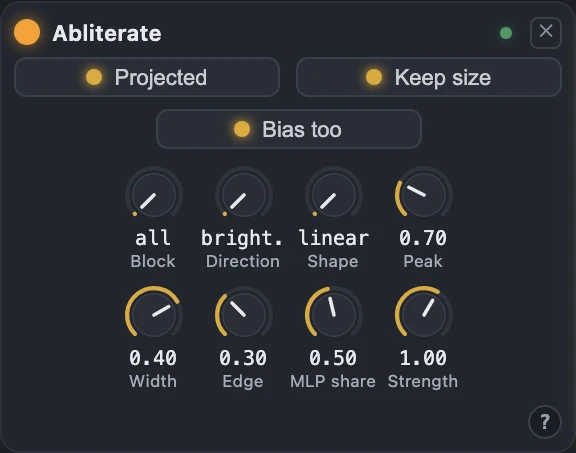
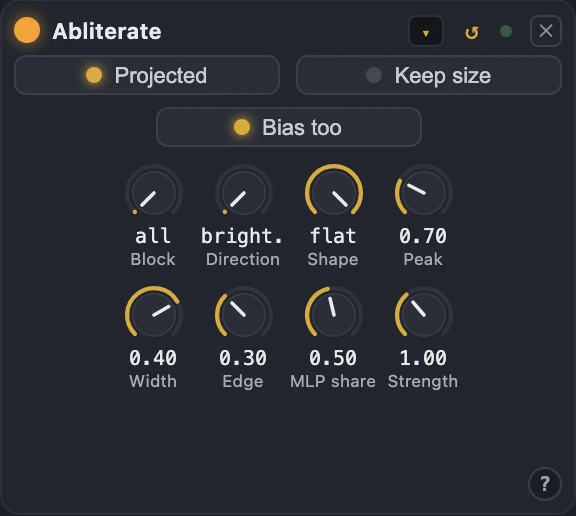
0.2.8: screenshots, captions and README for today's changes
New captures of the Make view, Output, the modulation strip (Steps tab), the Model layers card
(Abliterate with its presets and snap-back), the Effects row with Abliterated, the sends (linked
knobs lit, others dull) and all thirteen unit strips; the Abliterated card on the Effects page;
captions, alt text and sizes to match; the README on Abliterate's range, presets and MLX
version, snap-back and the Abliterated effect. The page templates in _tmp/site brought up to
date so a rebuild keeps today's edits.

diff --git a/docs/index.html b/docs/index.html
@@ -142,7 +142,7 @@
         <figcaption><span class="tag">Signal path</span>The route through the model and out as sound, live. A selected card lights its unit's lane.</figcaption>
       </figure>
       <figure class="clip green" style="--w:150px;--mw:190px">
-        <a class="shot" href="img/c-output.webp" data-cap="Output while it plays: a low-pass at 16 kHz, volume 0.50, a buffer of three frames (120 ms) ahead of the sound card, auto level, limiter and De-click on, Bypass off. Dynamics: a compressor at 3.1:1 from −30 dBFS with fast attack, the gate off. The rows show the compressor's and gate's reduction on LEDs, auto level's gain and the limiter's pull. The OUT meter lights in cells, green, amber from −6 dB and red from −1 dB, with a hold line on each channel's peak."><img src="img/c-output.webp" width="230" height="341" loading="lazy" alt="The Output panel: knobs for Low-pass 16.0k, Volume 0.50 and Buffer 120 ms; switches Bypass, Level, Limiter and De-click, two by two; Dyn, Fast and Peak switches over Ratio, Thresh, Release and Gate knobs; rows of LEDs for Comp, Gate, Auto and Limit with their readings; and a tall OUT meter of green cells."></a>
+        <a class="shot" href="img/c-output.webp" data-cap="Output while it plays: a low-pass at 16 kHz, volume 0.50, a buffer of six frames (240 ms) ahead of the sound card, auto level, limiter and De-click on, Bypass off. Dynamics: a compressor at 3.1:1 from −30 dBFS with fast attack, the gate off. The rows show the compressor's and gate's reduction on LEDs, auto level's gain and the limiter's pull. The OUT meter lights in cells, green, amber from −6 dB and red from −1 dB, with a hold line on each channel's peak."><img src="img/c-output.webp" width="371" height="629" loading="lazy" alt="The Output panel: knobs for Low-pass 16.0k, Volume 0.50 and Buffer 240 ms; switches Bypass, Level, Limiter and De-click, two by two; Dyn, Fast and Peak switches over Ratio, Thresh, Release and Gate knobs; rows of LEDs for Comp, Gate, Auto and Limit with their readings; and a tall OUT meter of green cells."></a>
         <figcaption><span class="tag">Output</span>De-click, auto level, Dynamics (a compressor and gate), low-pass, limiter and volume, with Bypass to hear the model before them.</figcaption>
       </figure>
     </div>
@@ -152,21 +152,21 @@
         <figcaption><span class="tag">Steer</span>Two directions on a pad, at layer 6. The knobs keep to the range the measurements found musical.</figcaption>
       </figure>
       <figure class="clip red" style="--w:150px;--mw:190px">
-        <a class="shot" href="img/c-layer.webp" data-cap="A Lookback card at layer 6: Layer, Time (4 frames), Feedback (0.30) and Mix (0.20) as knobs. The ⚠ on Time and Feedback marks settings that held up only at these values in the measurements. Below, the last 32 frames, newest on the left, with the frames it reads back lit as it acts; here the reading is simulated, so the page could be captured without the engine."><img src="img/c-layer.webp" width="186" height="258" loading="lazy" alt="The Lookback card: its power light, name and remove button; knobs for Layer 6, Time 4 with a warning mark, Feedback 0.30 with a warning mark and Mix 0.20; a row of 32 small cells with every fourth one lit, reading 4 frames, 160 ms; a help button; beside it the empty slot for adding a unit."></a>
-        <figcaption><span class="tag">Model layer</span>Lookback at layer 6, with its taps lit. Its mix is measured; 0.5 silences the model.</figcaption>
+        <a class="shot" href="img/c-layer.webp" data-cap="An Abliterate card on all twelve blocks, taking Pulse out of what attention and the MLPs write and turning it round (Strength 2.00), flat over the blocks, Projected on and Keep size off. By its name, the ▾ menu of starting points (Remove · 1 to Far side · 6) and ↺, snap-back, which returns the model to where it was when the unit went on, once it goes off."><img src="img/c-layer.webp" width="576" height="516" loading="lazy" alt="The Abliterate card: its power light and name, a small preset menu, a gold snap-back arrow and a remove button; switches Projected (on), Keep size (off) and Bias too (on); knobs for Block all, Direction pulse, Shape flat, Peak 0.70, Width 0.40, Edge 0.30, MLP share 0.50 and Strength 2.00; a help button."></a>
+        <figcaption><span class="tag">Model layer</span>Abliterate on all blocks at strength 2, with its presets (▾) and snap-back (↺).</figcaption>
       </figure>
       <figure class="clip" style="--w:520px;--mw:760px">
-        <a class="shot" href="img/c-effects.webp" data-cap="An effect chain of four between IN and OUT while it plays: Tape, with its meter of how hard the tape is driven, at 7.5 inches a second; EQ 8, with a low cut at 80 Hz, 400 Hz down 3 dB and 2.5 kHz up 2 dB, drawn as its curve; Pan, auto-panning, with a dot for where the sound sits; and Plate in its 1980s colour. The ✕ removes an effect, its name drags it to another place, a + in the gap between two adds one there, and the dashed + adds one at the end, up to eight in all."><img src="img/c-effects.webp" width="1428" height="267" loading="lazy" alt="The Effects panel between IN and OUT labels: Tape with a small row of drive cells, knobs for Drive 0.55, Wow 0.30, Flutter 0.10, Hiss 0.10 and Mix 1.00, and a Speed selector of 3.75, 7.5 (lit), 15 and 30; EQ 8 with a response curve over eight knobs and a Slope of 12 or 24 dB; a narrow Pan card with an L to R track and a dot, and knobs for Pan C, Auto rate 0.20 and Auto depth 0.35; Plate with Decay 2.5 s, Size 1.00, Pre-delay 10 ms, Damp 0.30, Mod 0.50, Mix 0.25 and Colour set to 1980s; then a dashed + to add another."></a>
+        <a class="shot" href="img/c-effects.webp" data-cap="An effect chain of four between IN and OUT while it plays: Tape, with its meter of how hard the tape is driven, at 7.5 inches a second; Abliterated, the heavy distortion, at Crunch 0.60, Edge 0.35 and Complicate 0.30, mixed in at 0.55, its Steer moved by Steps (the green ring); EQ 8, with a low cut at 80 Hz, 400 Hz down 3 dB and 2.5 kHz up 2 dB, drawn as its curve; and Plate in its 1980s colour. The ✕ removes an effect, its name drags it to another place, a + in the gap between two adds one there, and the dashed + adds one at the end, up to eight in all."><img src="img/c-effects.webp" width="2308" height="533" loading="lazy" alt="The Effects panel between IN and OUT labels: Tape with a small row of drive cells, knobs for Drive 0.55, Wow 0.30, Flutter 0.10, Hiss 0.10 and Mix 1.00, and a Speed selector of 3.75, 7.5 (lit), 15 and 30; Abliterated with Crunch 0.60, Edge 0.35, Complicate 0.30, Steer 1.2k ringed in green, Tone 6.0k, Level 0.0 and Mix 0.55; EQ 8 with a response curve over eight knobs and a Slope of 12 or 24 dB; Plate with Decay 2.5 s, Size 1.00, Pre-delay 10 ms, Damp 0.30, Mod 0.50, Mix 0.25 and Colour set to 1980s; then a dashed + to add another."></a>
         <figcaption><span class="tag">Effects</span>Up to eight effects on the audio, added in any gap, removed and dragged into order. A saved sound keeps them.</figcaption>
       </figure>
     </div>
     <figure>
-      <a class="shot" href="img/c-mod.webp" data-cap="Modulation: three LFOs, three envelopes and two random sources along the top, each drawing what it does (a macro's tile appears once it moves something); the LFO tab below with shape, rate, amount, phase, symmetry and smoothing, and each LFO's links with their sends. LFO 1 moves Brightness and the low-pass, LFO 2 the Lookback unit's mix."><img src="img/c-mod.webp" width="1300" height="332" loading="lazy" alt="The modulation strip: tiles LFO 1, LFO 2, LFO 3, ENV 1, ENV 2, ENV 3, RAND 1 and RAND 2, each with a small drawing of its signal, and below them the LFO editor with five wave shapes and Rate, Amount, Phase, Symmetry and Smooth knobs for each LFO; LFO 1 at 0.20 Hz and 80% linked to Brightness at 0.35 and Low-pass at −0.20, LFO 2 a triangle linked to Lookback Mix at 0.30."><span class="zoom">Zoom</span></a>
-      <figcaption><b>Modulation.</b> Twelve sources. Drag a source onto any knob that takes one: the Steer doses, Strength, Temperature, the output's low-pass and volume, every knob of a Model layers unit and of an effect. Each source is a function of the frame's time, so a saved sound replays its modulation exactly.</figcaption>
+      <a class="shot" href="img/c-mod.webp" data-cap="Modulation: three LFOs, an envelope, two random sources, Steps, the Follower, Drift and Chaos along the top, each drawing what it does (ENV 2, ENV 3 and the macros appear once they move something); the Steps tab below, with eight steps drawn by hand at two a second, its Rate, Length, Glide and Amount, and its link to Abliterated's Steer at 0.30."><img src="img/c-mod.webp" width="2308" height="563" loading="lazy" alt="The modulation strip: tiles LFO 1, LFO 2, LFO 3, ENV 1, RAND 1, RAND 2, STEPS, FOLLOW, DRIFT and CHAOS, each with a small drawing of its signal; below them the tabs LFO, Envelope, Random, Steps, Follower, Wild and Macros, the Steps tab open: eight green bars above and below a centre line, and knobs for Rate 2.00 a second, Length 8, Glide 0 and Amount 100%, with a link to Abliterated Steer at 0.30."><span class="zoom">Zoom</span></a>
+      <figcaption><b>Modulation.</b> Sixteen sources: LFOs, envelopes, random sources, Steps, the Follower, Drift, Chaos and macros. Drag a source onto any knob that takes one: the Steer doses, Strength, Temperature, the output's low-pass and volume, every knob of a Model layers unit and of an effect. Each source but the Follower is a function of the frame's time, and the Follower reads the model's own output, so a saved sound replays its modulation exactly.</figcaption>
     </figure>
     <figure class="clip" style="--w:280px;--mw:360px">
-      <a class="shot" href="img/c-send.webp" data-cap="LFO 1 selected: the Steer card's knobs have turned into its sends, Pulse at +0.12, drawn from 12 o'clock in its colour. Its badge is being dragged onto Brightness, which lights up to take it."><img src="img/c-send.webp" width="397" height="260" loading="lazy" alt="The Steer card with LFO 1 selected: the Brightness and Pulse knobs show sends instead of values, Pulse at +0.12 with a gold arc, and a small LFO 1 badge with a sine glyph over the glowing Brightness knob."></a>
-      <figcaption><span class="tag">Sends</span>Click a source and the knobs it can move become its sends: drag up for more, down for less, double-click to unlink. Its badge drops onto a knob to link it.</figcaption>
+      <a class="shot" href="img/c-send.webp" data-cap="LFO 1 selected: the Steer card's knobs have turned into its sends. Brightness, which it moves, is lit, its send +0.12 in gold from 12 o'clock; Pulse, which it could move, is dull at +0.00. The instructions show in the info bar at the foot of the page."><img src="img/c-send.webp" width="794" height="520" loading="lazy" alt="The Steer card with LFO 1 selected: the Brightness knob glowing gold with its send at +0.12, the Pulse knob in a dull yellow with its send at +0.00, beside the XY pad and the chart of the doses."></a>
+      <figcaption><span class="tag">Sends</span>Click a source and the knobs it can move become its sends, lit where it already moves them. Click a knob to link it at 0.5, drag up for more, down for less, double-click to unlink. Its badge drops onto a knob to link it at 0.5.</figcaption>
     </figure>
     <figure>
       <a class="shot" href="img/c-listen.webp" data-cap="Listen (≋ in the top bar): the model's lane while it plays the Warm drone. Partway through, a Brightness dose of 0.2 was set: the low drone fades and higher material comes in. A second lane shows the tracks' mix."><img src="img/c-listen.webp" width="1400" height="384" loading="lazy" alt="The Listen view: a wide spectrogram from 40 Hz to 20 kHz in violet, amber and white; on the left a strong band near 150 Hz with partials above it, on the right, after the Brightness move, the low band gone and bright partials between 500 Hz and 5 kHz."><span class="zoom">Zoom</span></a>
@@ -222,55 +222,55 @@
     <p class="unit-desk-note">Each unit as a card on the Model layers row, at the defaults measured on this engine, with the display it shows while the model plays. The displays here are drawn from simulated readings, so the page could be captured without the engine. Scroll along the row; a name opens the unit's card, with its whole sweep to listen to.</p>
     <div class="unit-desk" tabindex="0" aria-label="The thirteen units' strips; scroll sideways for more">
         <figure class="ucard">
-          <a class="shot" href="img/strips/delay.webp" data-cap="Lookback on the Model layers row, at the defaults measured on this engine. Its card on the Model layers page has its sweep to listen to."><img src="img/strips/delay.webp" width="144" height="178" loading="lazy" alt="The Lookback strip at its defaults."></a>
+          <a class="shot" href="img/strips/delay.webp" data-cap="Lookback on the Model layers row, at the defaults measured on this engine. Its card on the Model layers page has its sweep to listen to."><img src="img/strips/delay.webp" width="288" height="516" loading="lazy" alt="The Lookback strip at its defaults."></a>
           <figcaption><b><a href="units.html#u-delay">Lookback</a></b><span class="uwhat">Adds the stream from some positions back: an echo, with feedback</span></figcaption>
         </figure>
         <figure class="ucard">
-          <a class="shot" href="img/strips/reverb.webp" data-cap="Running Average on the Model layers row, at the defaults measured on this engine. Its card on the Model layers page has its sweep to listen to."><img src="img/strips/reverb.webp" width="144" height="178" loading="lazy" alt="The Running Average strip at its defaults."></a>
+          <a class="shot" href="img/strips/reverb.webp" data-cap="Running Average on the Model layers row, at the defaults measured on this engine. Its card on the Model layers page has its sweep to listen to."><img src="img/strips/reverb.webp" width="288" height="516" loading="lazy" alt="The Running Average strip at its defaults."></a>
           <figcaption><b><a href="units.html#u-reverb">Running Average</a></b><span class="uwhat">Adds a decaying average of the earlier positions</span></figcaption>
         </figure>
         <figure class="ucard">
-          <a class="shot" href="img/strips/beatrepeat.webp" data-cap="Frame Repeat on the Model layers row, at the defaults measured on this engine. Its card on the Model layers page has its sweep to listen to."><img src="img/strips/beatrepeat.webp" width="144" height="178" loading="lazy" alt="The Frame Repeat strip at its defaults."></a>
+          <a class="shot" href="img/strips/beatrepeat.webp" data-cap="Frame Repeat on the Model layers row, at the defaults measured on this engine. Its card on the Model layers page has its sweep to listen to."><img src="img/strips/beatrepeat.webp" width="288" height="516" loading="lazy" alt="The Frame Repeat strip at its defaults."></a>
           <figcaption><b><a href="units.html#u-beatrepeat">Frame Repeat</a></b><span class="uwhat">In every run of positions, replays the stream of the few positions before over the last few: a stutter</span></figcaption>
         </figure>
         <figure class="ucard">
-          <a class="shot" href="img/strips/compressor.webp" data-cap="Norm Shrink on the Model layers row, at the defaults measured on this engine. Its card on the Model layers page has its sweep to listen to."><img src="img/strips/compressor.webp" width="144" height="178" loading="lazy" alt="The Norm Shrink strip at its defaults."></a>
+          <a class="shot" href="img/strips/compressor.webp" data-cap="Norm Shrink on the Model layers row, at the defaults measured on this engine. Its card on the Model layers page has its sweep to listen to."><img src="img/strips/compressor.webp" width="288" height="516" loading="lazy" alt="The Norm Shrink strip at its defaults."></a>
           <figcaption><b><a href="units.html#u-compressor">Norm Shrink</a></b><span class="uwhat">Above a threshold, reduces the stream's size at each position by a ratio</span></figcaption>
         </figure>
         <figure class="ucard">
-          <a class="shot" href="img/strips/saturator.webp" data-cap="Tanh Squash on the Model layers row, at the defaults measured on this engine. Its card on the Model layers page has its sweep to listen to."><img src="img/strips/saturator.webp" width="144" height="178" loading="lazy" alt="The Tanh Squash strip at its defaults."></a>
+          <a class="shot" href="img/strips/saturator.webp" data-cap="Tanh Squash on the Model layers row, at the defaults measured on this engine. Its card on the Model layers page has its sweep to listen to."><img src="img/strips/saturator.webp" width="288" height="516" loading="lazy" alt="The Tanh Squash strip at its defaults."></a>
           <figcaption><b><a href="units.html#u-saturator">Tanh Squash</a></b><span class="uwhat">Soft-clips each dimension of the stream, harder as the drive rises</span></figcaption>
         </figure>
         <figure class="ucard">
-          <a class="shot" href="img/strips/erosion.webp" data-cap="Quantise on the Model layers row, at the defaults measured on this engine. Its card on the Model layers page has its sweep to listen to."><img src="img/strips/erosion.webp" width="144" height="217" loading="lazy" alt="The Quantise strip at its defaults."></a>
+          <a class="shot" href="img/strips/erosion.webp" data-cap="Quantise on the Model layers row, at the defaults measured on this engine. Its card on the Model layers page has its sweep to listen to."><img src="img/strips/erosion.webp" width="288" height="516" loading="lazy" alt="The Quantise strip at its defaults."></a>
           <figcaption><b><a href="units.html#u-erosion">Quantise</a></b><span class="uwhat">Quantises the stream to few levels, or holds it over several positions</span></figcaption>
         </figure>
         <figure class="ucard">
-          <a class="shot" href="img/strips/gate.webp" data-cap="Sparsify on the Model layers row, at the defaults measured on this engine. Its card on the Model layers page has its sweep to listen to."><img src="img/strips/gate.webp" width="144" height="217" loading="lazy" alt="The Sparsify strip at its defaults."></a>
+          <a class="shot" href="img/strips/gate.webp" data-cap="Sparsify on the Model layers row, at the defaults measured on this engine. Its card on the Model layers page has its sweep to listen to."><img src="img/strips/gate.webp" width="288" height="516" loading="lazy" alt="The Sparsify strip at its defaults."></a>
           <figcaption><b><a href="units.html#u-gate">Sparsify</a></b><span class="uwhat">Keeps only each position's largest components and zeroes the rest, making the stream sparse</span></figcaption>
         </figure>
         <figure class="ucard">
-          <a class="shot" href="img/strips/limiter.webp" data-cap="Component Clamp on the Model layers row, at the defaults measured on this engine. Its card on the Model layers page has its sweep to listen to."><img src="img/strips/limiter.webp" width="144" height="217" loading="lazy" alt="The Component Clamp strip at its defaults."></a>
+          <a class="shot" href="img/strips/limiter.webp" data-cap="Component Clamp on the Model layers row, at the defaults measured on this engine. Its card on the Model layers page has its sweep to listen to."><img src="img/strips/limiter.webp" width="288" height="516" loading="lazy" alt="The Component Clamp strip at its defaults."></a>
           <figcaption><b><a href="units.html#u-limiter">Component Clamp</a></b><span class="uwhat">Clamps each position's largest components at a ceiling set by a quantile of their sizes</span></figcaption>
         </figure>
         <figure class="ucard">
-          <a class="shot" href="img/strips/eq.webp" data-cap="Principal Bands on the Model layers row, at the defaults measured on this engine. Its card on the Model layers page has its sweep to listen to."><img src="img/strips/eq.webp" width="144" height="217" loading="lazy" alt="The Principal Bands strip at its defaults."></a>
+          <a class="shot" href="img/strips/eq.webp" data-cap="Principal Bands on the Model layers row, at the defaults measured on this engine. Its card on the Model layers page has its sweep to listen to."><img src="img/strips/eq.webp" width="288" height="516" loading="lazy" alt="The Principal Bands strip at its defaults."></a>
           <figcaption><b><a href="units.html#u-eq">Principal Bands</a></b><span class="uwhat">Scales three bands of the stream's principal directions: low, mid, high</span></figcaption>
         </figure>
         <figure class="ucard">
-          <a class="shot" href="img/strips/multiband.webp" data-cap="Band Shrink on the Model layers row, at the defaults measured on this engine. Its card on the Model layers page has its sweep to listen to."><img src="img/strips/multiband.webp" width="144" height="178" loading="lazy" alt="The Band Shrink strip at its defaults."></a>
+          <a class="shot" href="img/strips/multiband.webp" data-cap="Band Shrink on the Model layers row, at the defaults measured on this engine. Its card on the Model layers page has its sweep to listen to."><img src="img/strips/multiband.webp" width="288" height="516" loading="lazy" alt="The Band Shrink strip at its defaults."></a>
           <figcaption><b><a href="units.html#u-multiband">Band Shrink</a></b><span class="uwhat">Compresses the stream separately in three bands of its principal directions: low, mid, high</span></figcaption>
         </figure>
         <figure class="ucard">
-          <a class="shot" href="img/strips/shifter.webp" data-cap="Rotate on the Model layers row, at the defaults measured on this engine. Its card on the Model layers page has its sweep to listen to."><img src="img/strips/shifter.webp" width="144" height="217" loading="lazy" alt="The Rotate strip at its defaults."></a>
+          <a class="shot" href="img/strips/shifter.webp" data-cap="Rotate on the Model layers row, at the defaults measured on this engine. Its card on the Model layers page has its sweep to listen to."><img src="img/strips/shifter.webp" width="288" height="516" loading="lazy" alt="The Rotate strip at its defaults."></a>
           <figcaption><b><a href="units.html#u-shifter">Rotate</a></b><span class="uwhat">Rotates the stream in the plane of two directions</span></figcaption>
         </figure>
         <figure class="ucard">
-          <a class="shot" href="img/strips/abliterate.webp" data-cap="Abliterate on the Model layers row, at the defaults measured on this engine. Its card on the Model layers page has its sweep to listen to."><img src="img/strips/abliterate.webp" width="288" height="226" loading="lazy" alt="The Abliterate strip at its defaults."></a>
+          <a class="shot" href="img/strips/abliterate.webp" data-cap="Abliterate on the Model layers row, at the defaults measured on this engine. Its card on the Model layers page has its sweep to listen to."><img src="img/strips/abliterate.webp" width="576" height="516" loading="lazy" alt="The Abliterate strip at its defaults."></a>
           <figcaption><b><a href="units.html#u-abliterate">Abliterate</a></b><span class="uwhat">Removes a direction from what attention and MLPs write, with a strength that peaks at one block and tapers</span></figcaption>
         </figure>
         <figure class="ucard">
-          <a class="shot" href="img/strips/neuron.webp" data-cap="Neuron on the Model layers row, at the defaults measured on this engine. Its card on the Model layers page has its sweep to listen to."><img src="img/strips/neuron.webp" width="288" height="226" loading="lazy" alt="The Neuron strip at its defaults."></a>
+          <a class="shot" href="img/strips/neuron.webp" data-cap="Neuron on the Model layers row, at the defaults measured on this engine. Its card on the Model layers page has its sweep to listen to."><img src="img/strips/neuron.webp" width="576" height="516" loading="lazy" alt="The Neuron strip at its defaults."></a>
           <figcaption><b><a href="units.html#u-neuron">Neuron</a></b><span class="uwhat">Scales, adds to, sets, zeroes, flips or clamps single MLP neurons in one block</span></figcaption>
         </figure>
     </div>
@@ -439,7 +439,7 @@
 </div>
 
 <audio id="player" preload="none"></audio>
-<script src="spec-index.js?v=989cfc11"></script>
+<script src="spec-index.js?v=389787bb"></script>
 <script src="media.js?v=e1db11f7"></script>
 <script src="site.js?v=f8f63539"></script>
 </body>

diff --git a/docs/effects.html b/docs/effects.html
@@ -93,6 +93,7 @@
       <figure><a class="shot" href="img/chain/fx-eq8.webp" data-cap="EQ 8 with a low cut at 80 Hz, a dip at 400 Hz and a lift at 2.5 kHz, cuts at 24 dB an octave."><img src="img/chain/fx-eq8.webp" width="240" height="231" loading="lazy" alt="The EQ 8 card with a response curve, eight knobs and a Slope switch."></a><figcaption>EQ 8</figcaption></figure>
       <figure><a class="shot" href="img/chain/fx-filter.webp" data-cap="Filter as a low-pass at 4 kHz with some resonance, and its curve."><img src="img/chain/fx-filter.webp" width="240" height="215" loading="lazy" alt="The Filter card with a curve that rises to a peak and falls, Cutoff and Resonance knobs, and an LP, HP, BP switch."></a><figcaption>Filter</figcaption></figure>
       <figure><a class="shot" href="img/chain/fx-crush.webp" data-cap="Crush: Bits, Rate ÷ and Mix."><img src="img/chain/fx-crush.webp" width="240" height="231" loading="lazy" alt="The Crush card with knobs for Bits 8, Rate ÷ 2 and Mix."></a><figcaption>Crush</figcaption></figure>
+      <figure><a class="shot" href="img/chain/fx-abliterated.webp" data-cap="Abliterated: Crunch, Edge, Complicate and Steer, then Tone, Level and Mix; here Steps moves Steer (the green ring)."><img src="img/chain/fx-abliterated.webp" width="240" height="232" loading="lazy" alt="The Abliterated card with knobs for Crunch 0.60, Edge 0.35, Complicate 0.30, Steer 1.2k with a green modulation ring, Tone 6.0k, Level 0.0 and Mix 0.55."></a><figcaption>Abliterated</figcaption></figure>
       <figure><a class="shot" href="img/chain/fx-pan.webp" data-cap="Pan auto-panning, with a dot for where the sound sits."><img src="img/chain/fx-pan.webp" width="154" height="231" loading="lazy" alt="The Pan card with a small L to R track and a dot, and knobs for Pan, Auto rate and Auto depth."></a><figcaption>Pan</figcaption></figure>
       <figure><a class="shot" href="img/chain/fx-declick.webp" data-cap="De-click with its count of bursts redrawn."><img src="img/chain/fx-declick.webp" width="154" height="231" loading="lazy" alt="The De-click card with a count reading 0 and knobs for Sensitivity and Longest."></a><figcaption>De-click</figcaption></figure>
     </div>
@@ -177,6 +178,9 @@
   <section class="section wrap reveal" id="abliterated">
     <span class="num">06</span>
     <h2>Abliterated</h2>
+    <figure class="clip" style="--w:240px;--mw:280px;float:right;margin:0 0 12px 18px">
+      <a class="shot" href="img/chain/fx-abliterated.webp" data-cap="Abliterated in a chain while it plays: Crunch 0.60, Edge 0.35, Complicate 0.30, Steer 1.2 kHz moved by Steps, Tone 6 kHz, Level 0 dB and Mix 0.55."><img src="img/chain/fx-abliterated.webp" width="240" height="232" loading="lazy" alt="The Abliterated card with seven knobs."></a>
+    </figure>
     <p>Abliterated is heavy distortion written for this instrument, in the Distortion group of the add menu with Drive and Crush. <b>Steer</b> sets where it bites: a resonant boost of 12 dB before the clipping, after a low cut at 90 Hz that keeps the lows tight. <b>Crunch</b> drives two tanh stages, each tilted to one side and the second the other way, with a high-pass at 140 Hz between them, from about 2× to 300× (+50 dB) in all. <b>Edge</b> blends in a sine wavefolder that folds the clipped wave back on itself up to seven times, which rings like metal. <b>Complicate</b> adds an octave up, the wave rectified, over the first half of its travel, and over the second a ring modulator at 1.5 times Steer, whose sum and difference tones clang. <b>Tone</b> is a two-pole low-pass standing in for a speaker cabinet. A make-up gain follows the input's power against the output's over 300 ms, so the controls change the character more than the level; <b>Level</b> trims it and <b>Mix</b> blends in the dry sound for parallel distortion.</p>
     <p>On Deep techno, whose sound is mostly below 100 Hz, the spectral centroid went from 65 Hz dry to 307 Hz at the defaults, 520 Hz with Crunch at 1 and Edge at 0.8, 1.06 kHz with Complicate at 0.5 and 2.23 kHz at 1, while the level stayed within 3 dB. It costs about 0.13 ms of the 10.7 ms block, and like every effect here it gives the same output at any block size.</p>
   </section>

diff --git a/docs/output.html b/docs/output.html
@@ -83,7 +83,7 @@
       </div>
       <div>
         <figure class="clip green" style="--w:230px;--mw:260px">
-          <a class="shot" href="img/chain/out-panel.webp" data-cap="The Output panel while it plays: Low-pass, Volume and Buffer; Bypass, Level, Limiter and De-click; Dynamics with Fast and Peak, Ratio, Threshold, Release and Gate; the rows of reduction for the compressor, gate, auto level and limiter; and the OUT meter."><img src="img/chain/out-panel.webp" width="230" height="341" loading="lazy" alt="The Output panel: three knobs, four switches, the Dynamics switches and four knobs, four rows of reduction LEDs, and a tall OUT meter of green cells."></a>
+          <a class="shot" href="img/chain/out-panel.webp" data-cap="The Output panel while it plays: Low-pass, Volume and Buffer; Bypass, Level, Limiter and De-click; Dynamics with Fast and Peak, Ratio, Threshold, Release and Gate; the rows of reduction for the compressor, gate, auto level and limiter; and the OUT meter."><img src="img/chain/out-panel.webp" width="185" height="314" loading="lazy" alt="The Output panel: three knobs, four switches, the Dynamics switches and four knobs, four rows of reduction LEDs, and a tall OUT meter of green cells."></a>
           <figcaption><span class="tag">Output</span>The whole section on one panel, with the OUT meter.</figcaption>
         </figure>
       </div>

diff --git a/docs/abliteration.html b/docs/abliteration.html
@@ -188,7 +188,7 @@
 
 <audio id="player" preload="none"></audio>
 <script src="media.js?v=e1db11f7"></script>
-<script src="units-media.js?v=f9351d93"></script>
+<script src="units-media.js?v=dc23b686"></script>
 <script src="design-media.js?v=a9f614af"></script>
 <script src="site.js?v=f8f63539"></script>
 <script>
@@ -208,7 +208,7 @@
   trio("trio-delay", D.delay || {}, ["The model, as it plays", "A delay on the audio", "Vector bending: Lookback"]);
 })();
 </script>
-<script src="spec-index.js?v=989cfc11"></script>
+<script src="spec-index.js?v=389787bb"></script>
 <script src="spectro.js?v=fb1f3867"></script>
 <script src="abliteration.js?v=dc501a48"></script>
 </body>

diff --git a/docs/units.html b/docs/units.html
@@ -165,7 +165,7 @@
 </div>
 
 <audio id="player" preload="none"></audio>
-<script src="units-media.js?v=f9351d93"></script>
+<script src="units-media.js?v=dc23b686"></script>
 <script src="units.js?v=ffc7900a"></script>
 <script src="site.js?v=f8f63539"></script>
 </body>

diff --git a/README.md b/README.md
@@ -18,7 +18,7 @@
 
 **Author:** David M. Berry
 **Institution:** University of Sussex
-**Version:** 0.2.7
+**Version:** 0.2.8
 **Status:** alpha
 **Licence:** GPL-3.0-or-later
 **Website:** https://vector-lab-tools.github.io/abliterator/
@@ -31,12 +31,12 @@ Abliterator plays a music model on your own machine and changes how it runs whil
 
 - **Make.** The instrument as a synth panel, on one laptop screen: the Engine (model; twenty-five presets in six groups, from ambient and electronic to acoustic, orchestral and experimental, or a style typed in the Prompt box and kept under Your prompts; Strength, how strongly the prompt steers the music; Seed; Temperature and Top-k under SAMPLING; and a scope of the last three seconds), the Signal path, the Output section, Model layers (Steer first, fixed at layer 6, then the units), Effects and Modulation. The Signal path draws, live, the stream through the model's twelve layers with Steer and each unit marked where it acts and lit while it acts, the codec, the model's sound and the effects, and an arrow on to the Output panel beside it, with dots running along both paths while it plays; a stage scrolls to its panel when clicked. Every knob sends while it turns; the change is heard from the next frame. **Speed** plays the model's sound slower, down to ⅛×, and **Mode** sets how: Tape lets the pitch fall with it, Stretch keeps the pitch (a phase vocoder with identity phase locking), Smear keeps it and washes it out over 0.34 s windows (after Paulstretch), and Off plays at 1× and keeps Speed's setting. The model writes only as fast as its sound is used, and a saved sound replays its speed exactly. Under the Engine's scope (Wave or Spectrum, with Mono and Stereo in its corner) are Mode and Speed under a SPEED CONTROL bracket and Width and Spread under STEREO, then left and right peak meters with the peak, RMS and correlation, and beside them the stereo field; the top bar shows CPU load and GPU load (the slowest steps against the 40 ms frame).
 - **Steer.** Directions made by difference of means from pairs of prompts that differ in one quality, kept as editable Markdown in `backend/config/contrasts/`. Brightness and Pulse ship. A dose is a share of the stream's typical size, added at layer 6.
-- **Model layers.** VAU units placed between the transformer layers (drag a card by its name to change their order; units at the same layer act in that order), under VAU's names for what they do to the stream (VAU marks its Core units as vector effects with a small v, which the units' help shows): Lookback, Running Average, Frame Repeat (VAU's Position Repeat), Tanh Squash, Norm Shrink, Band Shrink, Component Clamp, Principal Bands, Quantise, Sparsify, Rotate, Abliterate and Neuron. The units' PyTorch code runs on the MLX model through a bridge that hands each unit the stream at its layer for the position being written; each crossing makes the GPU wait for the CPU. Neuron and Quantise run instead as MLX versions of the same arithmetic (`mlxunits.py`, tested against VAU's units), so they stay on the GPU: Neuron in all twelve blocks adds under 1 ms to a step, where the bridge added about 9 ms. A unit that cannot attach reports why on its card and leaves the others playing. While it plays, each card shows what its unit is doing from the engine's readings at its layer (32 of the stream's values going in and coming out, and the stream's size after against before): Quantise and Component Clamp list values in and out; Sparsify draws its values as pixels, the zeroed ones dark; Tanh Squash plots out against in; Running Average traces one value before and after; Norm Shrink, Band Shrink and Principal Bands light gain LEDs; Lookback lights its taps on a row of frames; Frame Repeat lights where it repeats; Rotate runs a point along its angle; Neuron draws the neuron it changes most, swelling and firing with its value. Units without a display of their own have a green light that breathes while they act. Layer, Block, Neurons and the longer menus are stepped knobs; short menus are buttons. Space plays and stops.
+- **Model layers.** VAU units placed between the transformer layers (drag a card by its name to change their order; units at the same layer act in that order), under VAU's names for what they do to the stream (VAU marks its Core units as vector effects with a small v, which the units' help shows): Lookback, Running Average, Frame Repeat (VAU's Position Repeat), Tanh Squash, Norm Shrink, Band Shrink, Component Clamp, Principal Bands, Quantise, Sparsify, Rotate, Abliterate and Neuron. The units' PyTorch code runs on the MLX model through a bridge that hands each unit the stream at its layer for the position being written; each crossing makes the GPU wait for the CPU. Neuron, Quantise and Abliterate run instead as MLX versions of the same arithmetic (`mlxunits.py`, tested against VAU's units), so they stay on the GPU: Neuron in all twelve blocks adds under 1 ms to a step, where the bridge added about 9 ms, and Abliterate on all blocks no longer stalls each step 24 times. Abliterate's Strength runs to 6 here (VAU stops at 1.5): above 1 the direction is turned round rather than removed. Its card has a ▾ menu of starting points (Remove · 1, Mirror · 2, Beyond · 4, Far side · 6, and VAU's own Late blocks). Every card has ↺, snap-back, on by default: the model reads back about 20 s of its own frames, so a unit's sound lingers after it goes off, and with snap-back the model returns to where it was when the unit went on. A unit that cannot attach reports why on its card and leaves the others playing. While it plays, each card shows what its unit is doing from the engine's readings at its layer (32 of the stream's values going in and coming out, and the stream's size after against before): Quantise and Component Clamp list values in and out; Sparsify draws its values as pixels, the zeroed ones dark; Tanh Squash plots out against in; Running Average traces one value before and after; Norm Shrink, Band Shrink and Principal Bands light gain LEDs; Lookback lights its taps on a row of frames; Frame Repeat lights where it repeats; Rotate runs a point along its angle; Neuron draws the neuron it changes most, swelling and firing with its value. Units without a display of their own have a green light that breathes while they act. Layer, Block, Neurons and the longer menus are stepped knobs; short menus are buttons. Space plays and stops.
 - **Grouped by what they act on.** The add menu lists the units under Along time, On the stream's size, Coordinate by coordinate, Along directions and principal bands, and Inside a block. The space each acts on is read from the unit's manifest where it declares one, and from this host's own reading otherwise.
 - **Scope.** A meter on the Model layers row (up to four) that reads the stream at its layer each frame, after the Steer and the units there, and changes nothing. Trace draws the stream along its principal directions, largest first; Bands shows how far it swings in bands of those directions against its ordinary level; Time scrolls five seconds of its size, its reading along each Steer direction on the dose's own scale, and how far it turns from one frame to the next. Scopes are not saved with sounds.
 - **Listen.** A view (≋) that shows what you hear as a spectrogram while it plays: the model after its effects and output section on one lane, the tracks' mix on another, 40 Hz to 20 kHz over the last ten seconds, in the website's colours and scale. The Engine panel's scope switches between the waveform and the same spectrogram.
 - **Output.** Auto level, Dynamics (ratio, threshold, release and a gate, with Fast attack and Peak detection, and LEDs for each one's reduction), Width and Spread on the stereo field, a low-pass, a limiter and a volume; Bypass skips them all. De-click, first in the chain and on by default, redraws the few-sample bursts a unit pushed hard can make the model write (1.3 ms look-ahead). The OUT meter lights in cells with a hold line on each channel's peak. When the model falls behind, the last block plays on mirrored and fades over 30 ms, and the audio crossfades back in, so a dropout makes no click.
-- **Effects.** A chain of up to eight after the model, in one row from IN to OUT that scrolls sideways, added with a + in any gap and dragged into order, with a light that bypasses the chain; each one of reverb (a feedback delay network), plate (Dattorro's 1997 plate tank, with modulated allpasses), hall (a larger feedback delay network whose delay times wander smoothly at random; Plate and Hall each have a Colour of 2020s, 1980s or 1970s: clean, a darker tank with noisier modulation, or a tank run at half rate behind a 10 kHz band limit), delay (with ping-pong), chorus, drive, tape (saturation gain-matched at the model's usual level, wow and flutter, a head bump and roll-off by tape speed, hiss), pan (equal-power, with an auto-pan), a three-band EQ, EQ 8 (a low cut, six bells and a high cut, the cuts 12 or 24 dB an octave), filter, crush, or de-click (the output section's de-click, placed where you want it), written in numpy and scipy so that the output is the same at any block size. A change to the chain dips the output for a moment (about 16 dB, back up over 150 ms), switching an effect on or off crossfades it, and a delay or reverb whose delay time or size changes fades its wet signal out and back, so none of them clicks. Filter and the EQs draw their response curves; Drive has a small meter of how hard its curve is driven, with a CLIP mark; De-click counts the bursts it has redrawn.
+- **Effects.** A chain of up to eight after the model, in one row from IN to OUT that scrolls sideways, added with a + in any gap and dragged into order, with a light that bypasses the chain; each one of reverb (a feedback delay network), plate (Dattorro's 1997 plate tank, with modulated allpasses), hall (a larger feedback delay network whose delay times wander smoothly at random; Plate and Hall each have a Colour of 2020s, 1980s or 1970s: clean, a darker tank with noisier modulation, or a tank run at half rate behind a 10 kHz band limit), delay (with ping-pong), chorus, drive, tape (saturation gain-matched at the model's usual level, wow and flutter, a head bump and roll-off by tape speed, hiss), pan (equal-power, with an auto-pan), a three-band EQ, EQ 8 (a low cut, six bells and a high cut, the cuts 12 or 24 dB an octave), filter, crush, Abliterated (heavy distortion: two lopsided clipping stages driven up to +50 dB by Crunch, a wavefolder by Edge, an octave and a ring modulator by Complicate, aimed by Steer, with a cabinet low-pass and a make-up gain that holds the level), or de-click (the output section's de-click, placed where you want it), written in numpy and scipy so that the output is the same at any block size. A change to the chain dips the output for a moment (about 16 dB, back up over 150 ms), switching an effect on or off crossfades it, and a delay or reverb whose delay time or size changes fades its wet signal out and back, so none of them clicks. Filter and the EQs draw their response curves; Drive has a small meter of how hard its curve is driven, with a CLIP mark; De-click counts the bursts it has redrawn.
 - **Modulation.** Three LFOs, three envelopes, two random sources, Steps (a drawn sequence), the Follower (the sound's own loudness), Drift and Chaos (on the Wild tab), and four macros (a macro's tile, and ENV 2 and 3, show once they move something). Drag a source onto any knob that takes one: the Steer doses, Strength, Temperature, the low-pass, the volume, and every knob of a Model layers unit or an effect. With a source selected, each knob it can move shows its send: drag up for more, down for less, double-click to unlink. An LFO's Amount scales every send from it. A modulated unit is attached again with its memory kept whenever its knob moves a step. Sources are functions of the frame's time, so a saved sound replays its modulation exactly.
 - **Musical knobs.** Every control and every unit setting was swept on several presets and each render measured (level, clipping, silence, centroid, flatness, a long-term spectrum, flux), against the spread that changing the seed alone gives. Each knob keeps to the measured safe range, and its travel is shaped toward where the sound changes. The ranges were measured on the four ambient presets; the other presets and typed styles use them until a Tune pass is run on them. **Tune** lays the sweeps out as a grid of clips, and a range can be set by ear there.
 - **Sounds and Session.** **Save last** keeps the last 4 to 60 seconds as heard, with a recipe from which the engine renders it again sample for sample. Session has eight tracks of saved sounds that loop or play once, each a channel strip with pan, mute, solo, effects, and a fader with a ladder of LEDs and Hold reading the track's peak; a limiter on the mix, and exports of a track or the mix.
